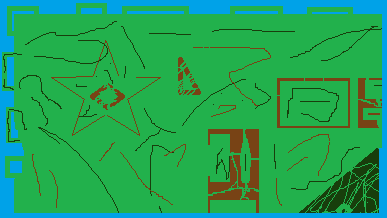
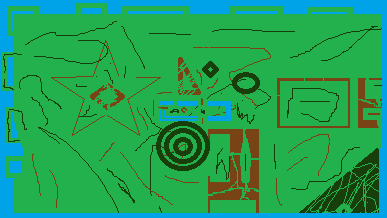
map and buses updating

diff --git a/client/level.py b/client/level.py
@@ -27,7 +27,7 @@ from chat import *
 colors = ["GREEN", "YELLOWISH GREEN", "RED"]
 ALL_BUSH_IMAGES = []
 ALL_TREE_IMAGES=[]
-BUSH_FRIQWENTY=30
+BUSH_FRIQWENTY=7
 
 map_for_d = {}
 def preload_all_trees():
@@ -144,7 +144,7 @@ class Level:
                     ground_count = 0
                 else:
                     ground_count += 1
-                    if random.randint(0,BUSH_FRIQWENTY) == 1 :
+                    if x%BUSH_FRIQWENTY==0 and y%BUSH_FRIQWENTY==0:
                         b=get_bushes()
                         s=Rock(world_pos,b, " ")
                 if s is not None:
@@ -252,8 +252,6 @@ class Camera(pygame.sprite.Group):
                     continue
                 sprite.draw(self.point.x, self.point.y)
 
-        # 4. ייעול ה-Grid (שימוש בטווחים שכבר חישבנו)
-        self._draw_optimized_grid(start_x, end_x, start_y, end_y)
         # Draw a centered red border box that mimics the original (unscaled)
         # WIDTH x HEIGHT viewport within the currently zoomed-out view.
         box_w = WIDTH / VIEW_SCALE_X
